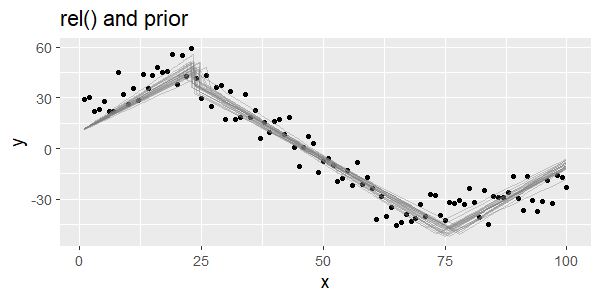
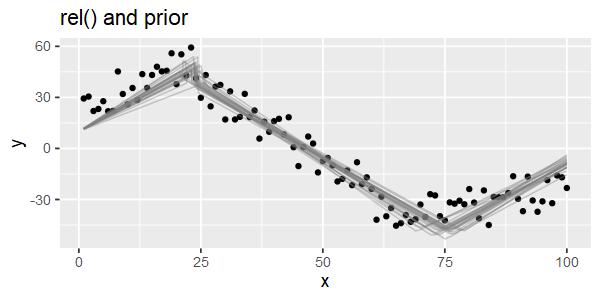
Plot: improve quantiles. Support cp_dens and geom_data.

diff --git a/NEWS.md b/NEWS.md
@@ -6,12 +6,18 @@ The API and internal structure should be stable now. v0.2.0 will be released on 
 
  * Model quadratic and other terms using `I(x^2)`, `I(x^3.24)`, `sin(x)`, `sqrt(x)`, etc.
  * Model variance for `family = gaussian()` using `~ sigma([formula here])`.
- * Model Nth order autoregressive models using `~ ar(order, formula)`, typically like `y ~ 1 + x + ar(2)` for AR(2). `plot()` visualize posteriors for AR(N) models. Simulate AR(N) models from scratch or given known data with `fit$simulate()`. The [article on AR(N)](https://lindeloev.github.io/mcp/articles/arma.html) has more details and examples. AR(N) models are popular to detect changes in time-series.
- * Plot prediction intervals using `plot(fit, quantiles = TRUE, quantiles_type = "predict")`.
+ * Model Nth order autoregressive models using `~ ar(order, formula)`, typically like `y ~ 1 + x + ar(2)` for AR(2). Simulate AR(N) models from scratch or given known data with `fit$simulate()`. The [article on AR(N)](https://lindeloev.github.io/mcp/articles/arma.html) has more details and examples. AR(N) models are popular to detect changes in time-series.
+ * Many updates to `plot()`.
+   - Includes the posterior densities of the change point(s). Disaple using `plot(fit, cp_dens = FALSE)`.
+   - Supports AR(N) models (see above).
+   - Plot posterior parameter intervals using `plot(fit, q_fit = TRUE)`. `plot(fit, q_fit = c(0.025, 0.5, 0.975))` plots 95% HDI and the median.
+   - Plot prediction intervals using `plot(fit, q_predict = TRUE)`. Can now be added on top of `q_fit`.
+   - Choose data geom, e.g., using `plot(fit, geom_data = "line")` (useful for time series) and disable using `geom_data = FALSE`.
  * Use `options(mc.cores = 3)` for considerable speed gains. All vignettes/articles have been updated to recommend this as a default, though serial sampling is still the technical default.
  * `fit$simulate()` adds the simulation parameters as an attribute (`attr(y, "simulate")`) to the predicted variable. `summary()` recognizes this and adds the simulated values to the results table (columns `sim` and `match`) so that one can inspect whether the values were recovered.
  * Use `plot(fit, which_y = "sigma")` to plot the residual standard deviation on the y-axis. It works for AR(N) as well (`which_y = "ar1"`, `which_y = "ar2"`, etc.). This is useful to visualize change points in variance and autocorrelation. The vignettes on variance and autocorrelations have been updated with worked examples.
  * Set a Dirichlet prior on the change points using `prior = list(cp_1 = "dirichlet(1)", cp_2 = ...)`. [Read pros and cons here](https://lindeloev.github.io/mcp/articles/priors.html).
+ * `plot()`
 
 ## Other changes:
 

diff --git a/README.md b/README.md
@@ -47,7 +47,7 @@ fit = mcp(segments, data = ex_demo)
 
 ## See results
 
-Plot lines drawn randomly from the posterior on top of data to inspect the fit:
+The default plot includes data, fitted lines drawn randomly from the posterior, and change point(s) posterior density for each chain:
 ```r
 plot(fit)
 ```
@@ -203,7 +203,7 @@ segments = list(
   1 + (1|id) ~ 0 + x  # joined slope, varying by id
 )
 fit = mcp(segments, ex_varying)
-plot(fit, facet_by = "id")
+plot(fit, facet_by = "id", cp_dens = FALSE)
 ```
 
 ![](https://github.com/lindeloev/mcp/raw/master/man/figures/ex_varying.png)
@@ -237,7 +237,7 @@ segments = list(
   ~ 1 + x             # disjoined changing rate
 )
 fit = mcp(segments, ex_binomial, family = binomial())
-plot(fit, quantiles = TRUE)
+plot(fit, q_fit = TRUE)
 ```
 
 ![](https://github.com/lindeloev/mcp/raw/master/man/figures/ex_binomial.png)
@@ -294,7 +294,7 @@ segments = list(
   ~ 0 + x
 )
 fit = mcp(segments, ex_variance, cores = 3, adapt = 5000, iter = 5000)
-plot(fit, quantiles = TRUE, quantiles_type = "predict")
+plot(fit, q_predict = TRUE)
 ```
 
 ![](https://github.com/lindeloev/mcp/raw/master/man/figures/ex_variance.png)
@@ -358,7 +358,7 @@ prior = list(
   cp_1 = "dunif(20, 50)"  # has to occur in this interval
 )
 fit = mcp(segments, ex_rel_prior, prior, iter = 10000)
-plot(fit)
+plot(fit, cp_dens = FALSE)
 ```
 
 ![](https://github.com/lindeloev/mcp/raw/master/man/figures/ex_fix_rel.png)
